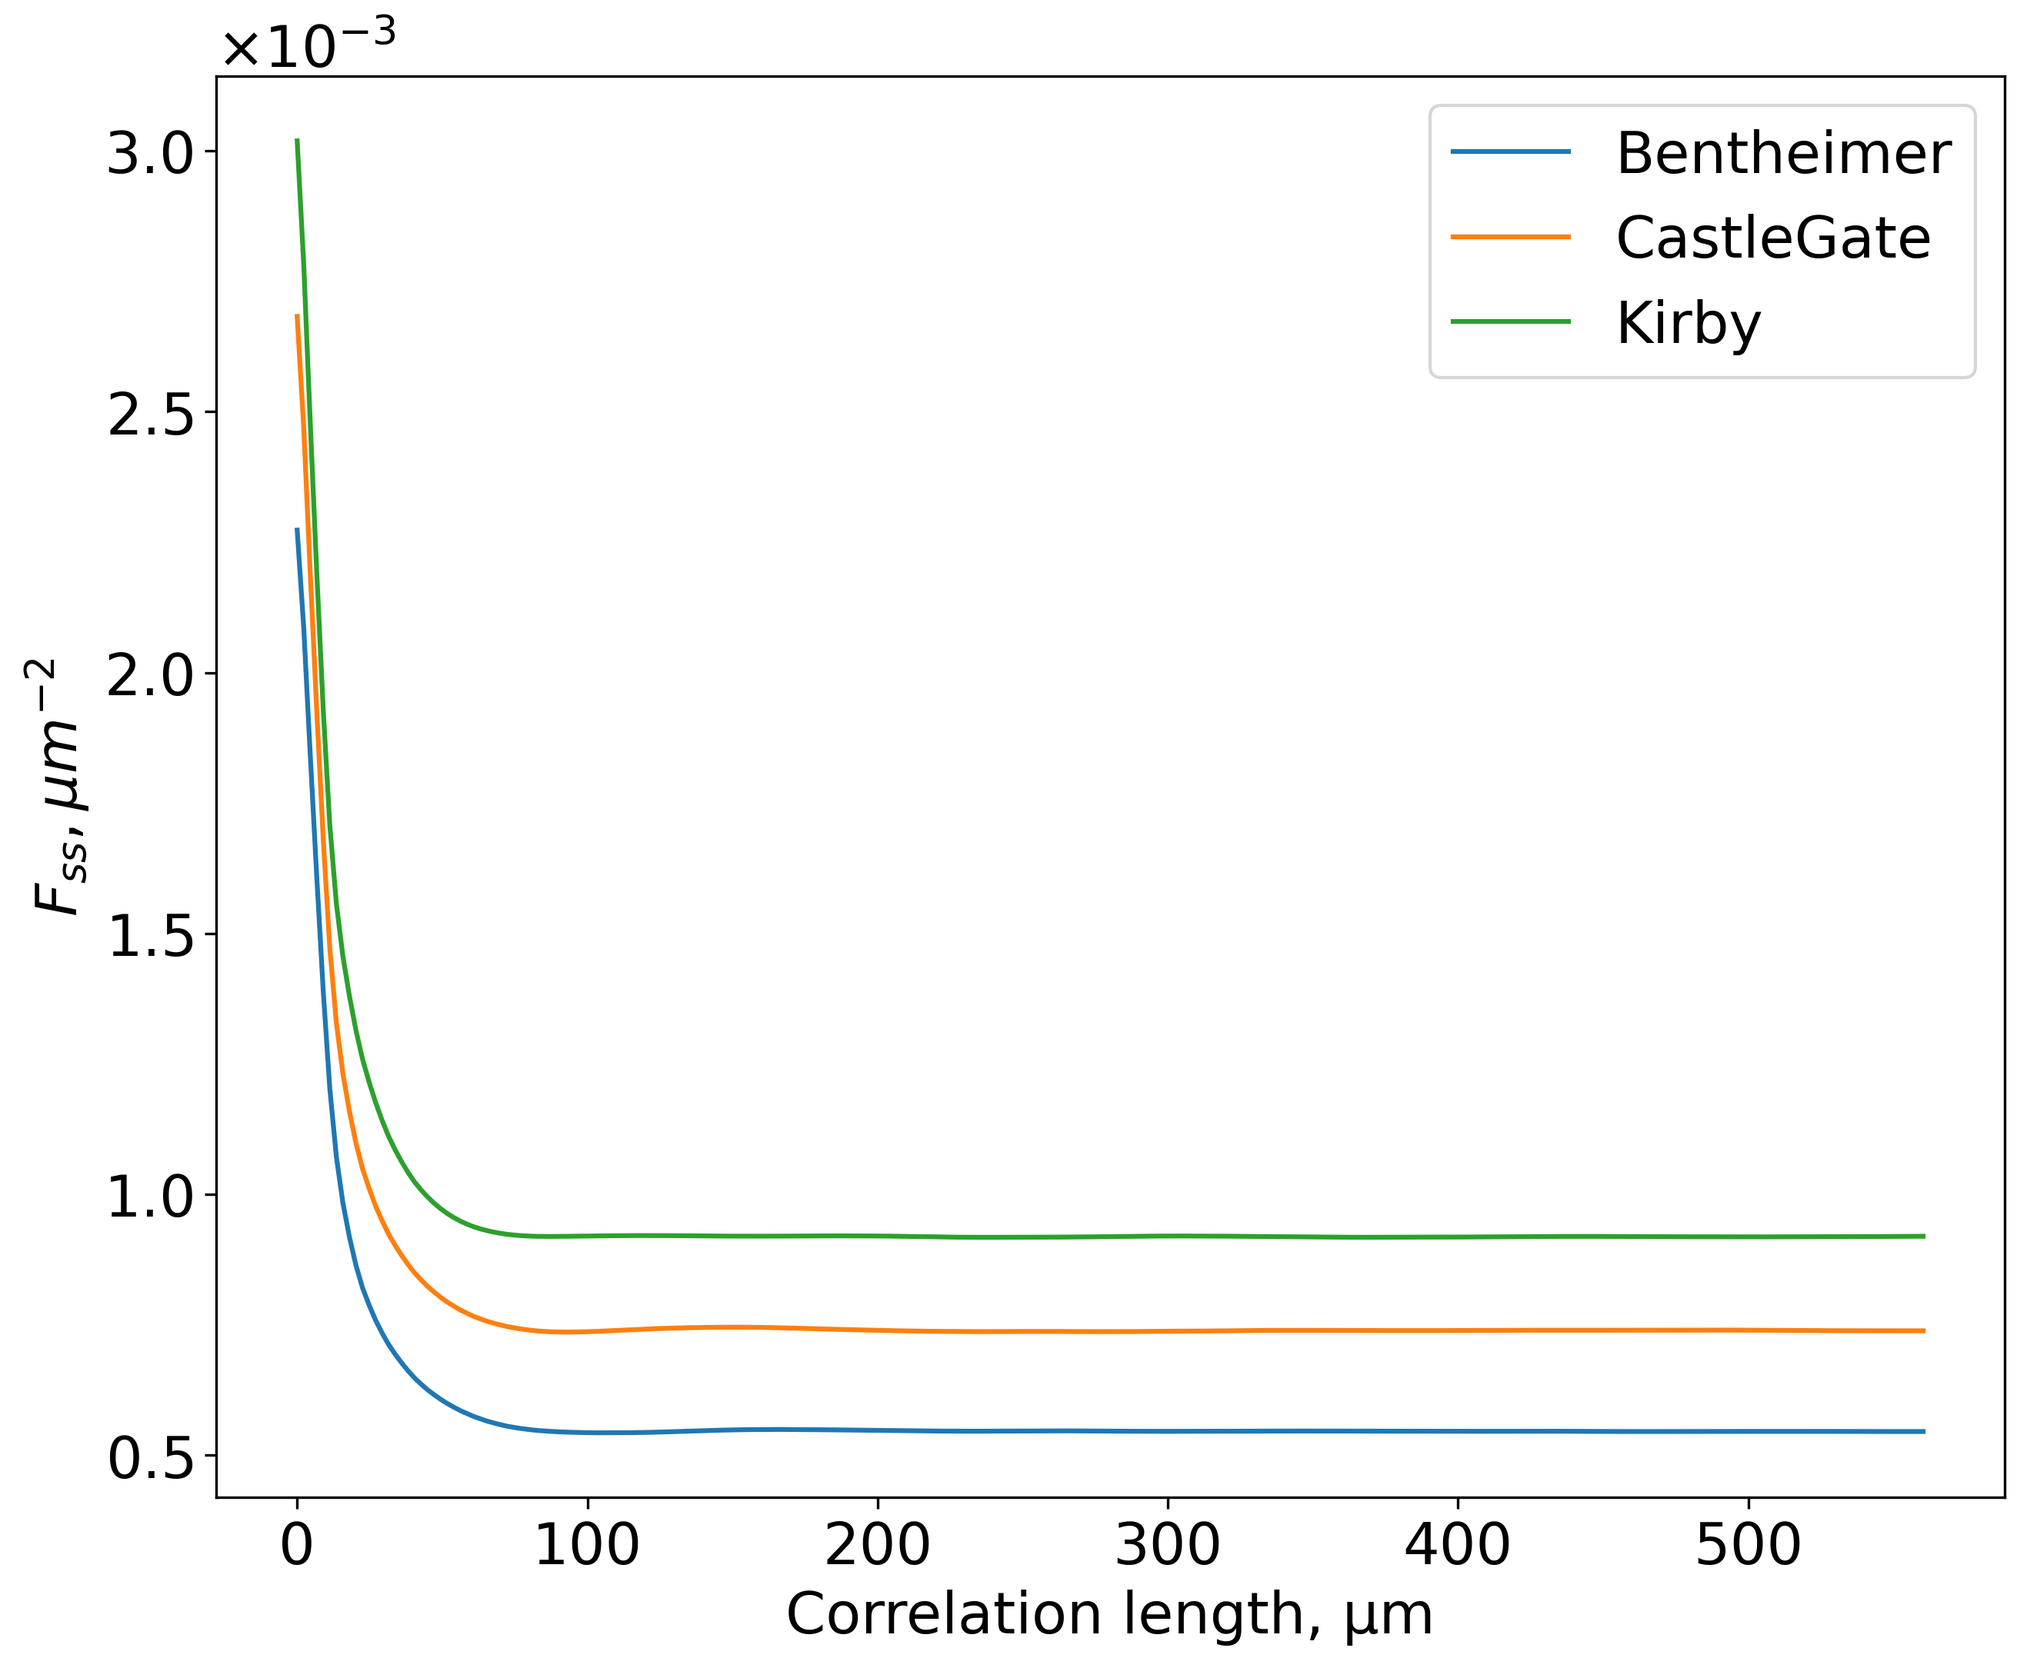
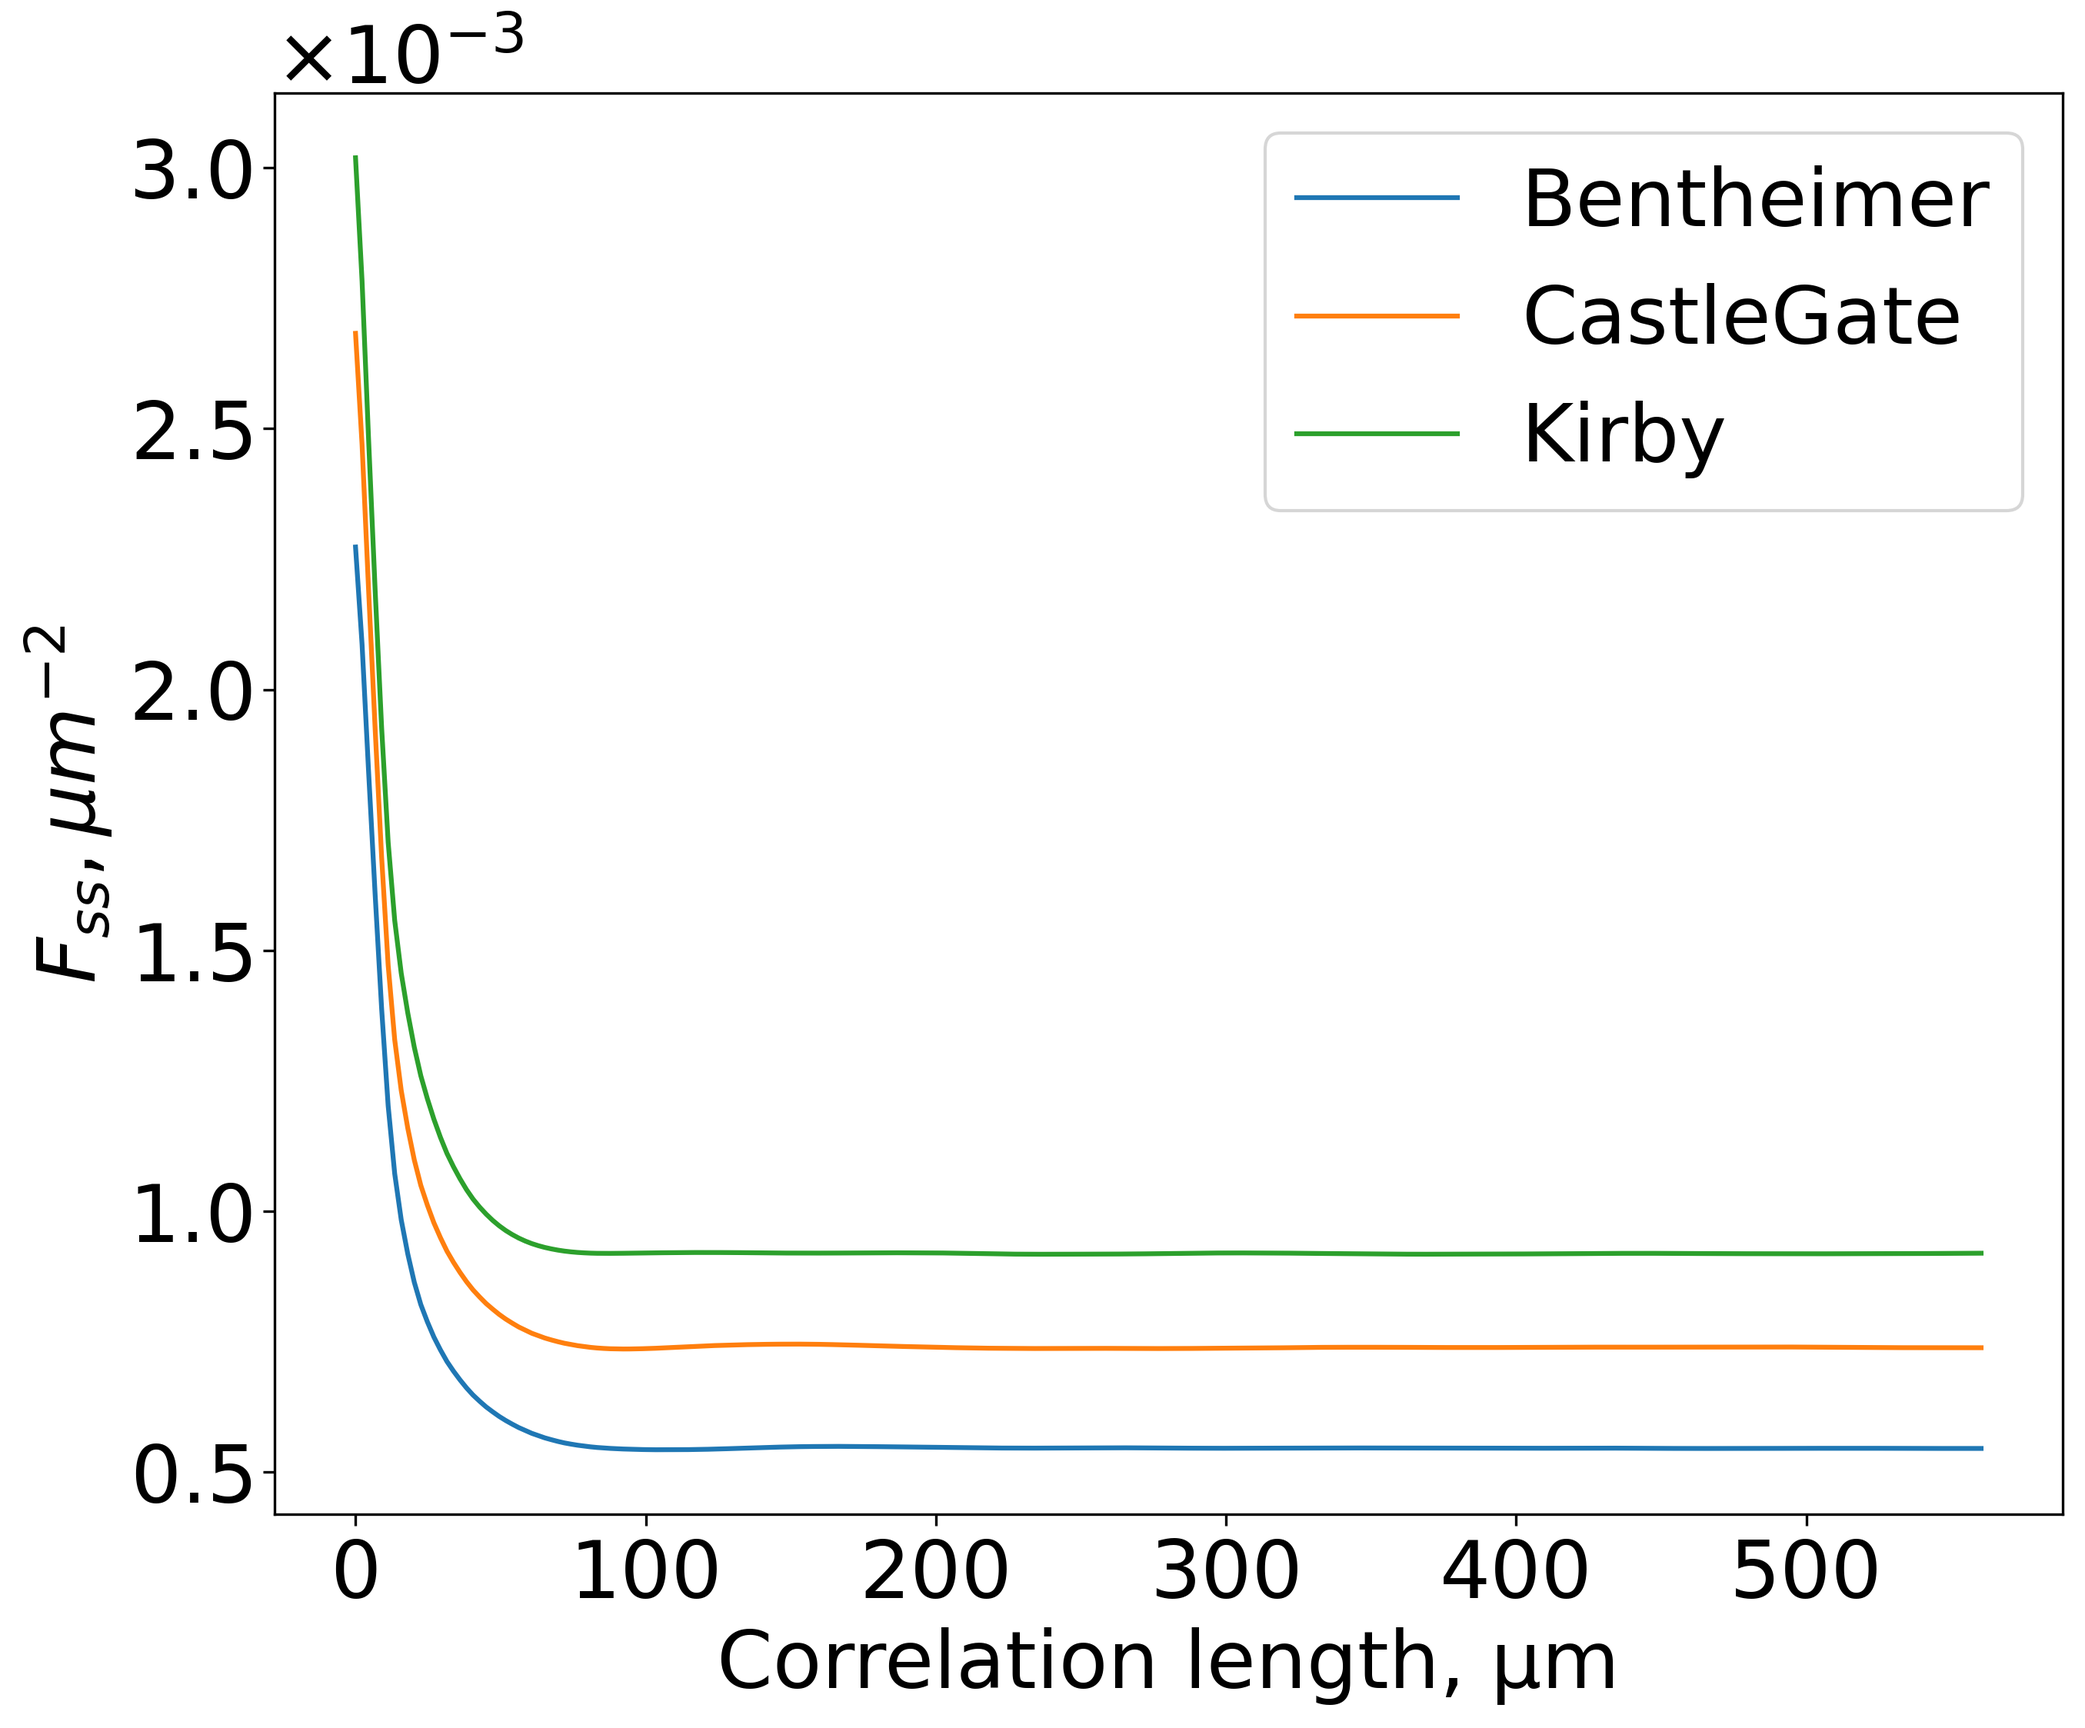
Redraw plots for real XCT samples

diff --git a/paper-correlations.tex b/paper-correlations.tex
@@ -775,8 +775,8 @@ solution we can apply our algorithms to evaluate correlation functions for
 different porous media images, including real XCT and SEM images. A summary
 which contains information about type of the images, dimensions and resolution
 can be found in \cref{tab:samples}. XCT images of sandstones are provided by
-Digital Rocks Portal\cite{DigitalRocks}. Correlation functions of these samples
-can be seen on \cref{fig:real-data}.
+Digital Rocks Portal\cite{DigitalRocks}. Correlation functions of XCT images
+can be seen on \cref{fig:real-xct}.
 
 \begin{table*}[!pt]
   \centering
@@ -784,9 +784,9 @@ can be seen on \cref{fig:real-data}.
     \begin{tabular}{|c|c|c|c|}
       Sample name & Image type & Dimensions (pixels) & Image resolution ($\mu m$) \\
       \hline
-      Bandera Brown sandstone & XCT & $1000 \times 1000 \times 1000$ & 2.25 \\
-      Bentheimer sandstone    & XCT & $1000 \times 1000 \times 1000$ & 2.25 \\
-      Kirby sandstone         & XCT & $1000 \times 1000 \times 1000$ & 2.25 \\
+      Castlegate sandstone & XCT & $1000 \times 1000 \times 1000$ & 2.25 \\
+      Bentheimer sandstone & XCT & $1000 \times 1000 \times 1000$ & 2.25 \\
+      Kirby sandstone      & XCT & $1000 \times 1000 \times 1000$ & 2.25 \\
       Sandstone 1 & SEM &  $1280 \times 869$ & 0.10 \\
       Sandstone 2 & SEM &  $1280 \times 869$ & 0.05 \\
       Carbonate 1 & SEM &  $1024 \times 691$ & 0.06
@@ -798,55 +798,27 @@ can be seen on \cref{fig:real-data}.
 
 \begin{figure*}[pt]
   \centering
-  \subfigure[Bandera Brown sandstone]{
-    \includegraphics[width=0.3\linewidth]{real-data/BanderaBrown_2d25um_binary.png}
-    \label{fig:bandera}}
+  \subfigure[Castlegate sandstone]{
+    \includegraphics[width=0.3\linewidth]{samples/CastleGate_2d25um_binary.png}
+    \label{fig:castlegate}}
   \hfill
   \subfigure[Bentheimer sandstone]{
-    \includegraphics[width=0.3\linewidth]{real-data/Bentheimer_2d25um_binary.png}
+    \includegraphics[width=0.3\linewidth]{samples/Bentheimer_2d25um_binary.png}
     \label{fig:bentheimer}}
   \hfill
   \subfigure[Kirby sandstone]{
-    \includegraphics[width=0.3\linewidth]{real-data/Kirby_2d25um_binary.png}
+    \includegraphics[width=0.3\linewidth]{samples/Kirby_2d25um_binary.png}
     \label{fig:kirby}}
   \vskip\baselineskip
-  \subfigure[Bandera Brown sandstone (correlation functions)]{
-    \includegraphics[width=0.3\linewidth]{real-data/BanderaBrown_2d25um_binary-plot.png}
-    \label{fig:bandera-plt}}
-  \hfill
-  \subfigure[Bentheimer sandstone (correlation functions)]{
-    \includegraphics[width=0.3\linewidth]{real-data/Bentheimer_2d25um_binary-plot.png}
-    \label{fig:bentheimer-plt}}
-  \hfill
-  \subfigure[Kirby sandstone (correlation functions)]{
-    \includegraphics[width=0.3\linewidth]{real-data/Kirby_2d25um_binary-plot.png}
-    \label{fig:kirby-plt}}
+  \includegraphics[width=0.3\linewidth]{samples/s2-xct.png}
+  \includegraphics[width=0.3\linewidth]{samples/c2-xct.png}
+  \includegraphics[width=0.3\linewidth]{samples/l2-xct.png}
   \vskip\baselineskip
-  \subfigure[Sandstone 1]{
-    \includegraphics[width=0.3\linewidth]{real-data/sandstone1.png}
-    \label{fig:real-sandstone-1}}
-  \hfill
-  \subfigure[Sandstone 2]{
-    \includegraphics[width=0.3\linewidth]{real-data/sandstone2.png}
-    \label{fig:real-sandstone-2}}
-  \hfill
-  \subfigure[Carbonate 1]{
-    \includegraphics[width=0.3\linewidth]{real-data/carbonate1.png}
-    \label{fig:real-carbonate-1-plt}}
-  \vskip\baselineskip
-  \subfigure[Sandstone 1 (correlation functions)]{
-    \includegraphics[width=0.3\linewidth]{real-data/sandstone1-plot.png}
-    \label{fig:real-sandstone-1-plt}}
-  \hfill
-  \subfigure[Sandstone 2 (correlation functions)]{
-    \includegraphics[width=0.3\linewidth]{real-data/sandstone2-plot.png}
-    \label{fig:real-sandstone-2-plt}}
-  \hfill
-  \subfigure[Carbonate 1 (correlation functions)]{
-    \includegraphics[width=0.3\linewidth]{real-data/carbonate1-plot.png}
-    \label{fig:real-carbonate-1}}
-  \caption[]{Plots of correlation functions for real samples.}
-  \label{fig:real-data}
+  \includegraphics[width=0.3\linewidth]{samples/surf2-xct.png}
+  \includegraphics[width=0.3\linewidth]{samples/surfvoid-xct.png}
+  \caption[]{Visualization of XCT images and plots of correlation functions for
+    these images.}
+  \label{fig:real-xct}
 \end{figure*}
 
 \section{Execution times of our algorithms}

diff --git a/samples/plot.py b/samples/plot.py
@@ -14,7 +14,7 @@ def load_data(name, fn):
 
 def plot_fn(fn, ylabel, power):
     plt.figure(figsize = (10, 8), dpi = 300)
-    plt.rc('font', size = 18)
+    plt.rc('font', size = 25)
 
     for n in data:
         d = load_data(n, fn) * (1/2.25)**power
